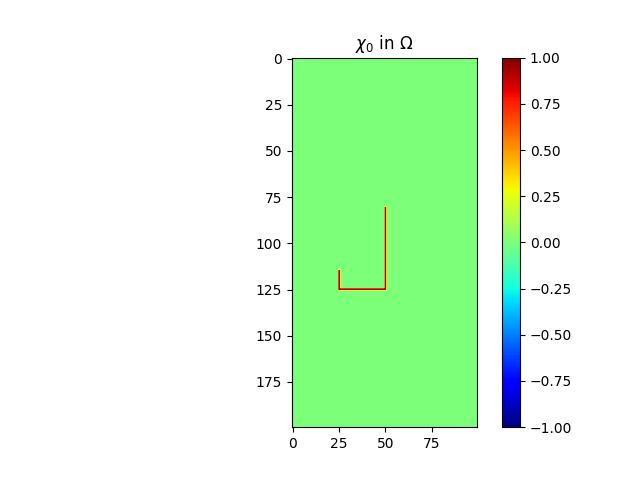
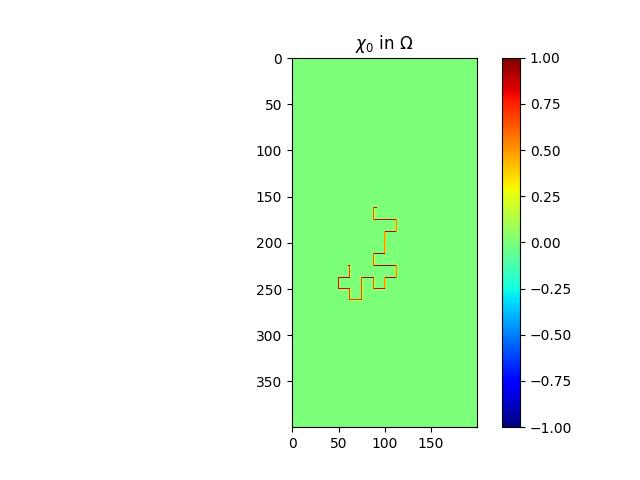
ras

diff --git a/demo_control_polycopie2023.py b/demo_control_polycopie2023.py
@@ -21,7 +21,7 @@ def compute_J_prim(alpha, u, p) :
 
     for i in range(M) :
         for j in range(N) :
-            res[i,j]=np.real(-alpha*u[i,j]*p[i,j])
+            res[i,j]=np.real(alpha*u[i,j]*p[i,j])
     return res
 
 
@@ -148,7 +148,7 @@ def compute_projected(chi, domain, V_obj):
         #print('le volume est', V, 'le volume objectif est', V_obj)
 
     # print(chi)
-    chi=chi_zero_ou_un (M, N, chi, S, V_obj, list_rob)
+    # chi=chi_zero_ou_un (M, N, chi, S, V_obj, list_rob)
 
     return chi
 
@@ -186,12 +186,9 @@ def your_optimization_procedure(domain_omega, spacestep, wavenumber, f, f_dir, f
         print(f"k={k}")
         #print('1. computing solution of Helmholtz problem, i.e., u')
         u=processing.solve_helmholtz(domain_omega, spacestep, wavenumber, f, f_dir, f_neu, f_rob, beta_pde, alpha_pde, alpha_dir, beta_neu, beta_rob, alpha_rob)
-        print(u)
         #print('2. computing solution of adjoint problem, i.e., p')
         p=processing.solve_helmholtz(domain_omega, spacestep, wavenumber, np.conjugate(-2*u), np.zeros_like(domain_omega), f_neu, f_rob, beta_pde, alpha_pde, alpha_dir, beta_neu, beta_rob, alpha_rob)
         #print('3. computing objective function, i.e., energy')
-        print(domain_omega)
-        print(p)
         J=your_compute_objective_function(u) #il y a répétition de ces calculs. ils sont deja fait dans le while en dessous.
         energy[k]=J
         print("energie = ",J)
@@ -231,6 +228,15 @@ def your_optimization_procedure(domain_omega, spacestep, wavenumber, f, f_dir, f
                 
         k += 1
 
+    (M, N) = np.shape(domain_omega)
+    list_rob=[]
+    S = 0
+    for i in range(M):
+        for j in range(N):
+            if domain_omega[i, j] == _env.NODE_ROBIN:
+                S = S + 1
+                list_rob.append([(i,j),0])
+    chi=chi_zero_ou_un(M, N, chi, S, V_obj, list_rob)
     print('end. computing solution of Helmholtz problem, i.e., u')
 
     return chi, energy, u, grad
@@ -267,9 +273,9 @@ if __name__ == '__main__':
     # ----------------------------------------------------------------------
     # -- set parameters of the geometry
 
-    N = 20  # number of points along x-axis
+    N = 200  # number of points along x-axis
     M = 2 * N  # number of points along y-axis
-    level = 1 # level of the fractal
+    level = 2 # level of the fractal
     spacestep = 1.0 / N  # mesh size
 
     # -- set parameters of the partial differential equation
@@ -326,7 +332,7 @@ if __name__ == '__main__':
     V_0 = 1  # initial volume of the domain
     V_obj = np.sum(np.sum(chi)) / S  # constraint on the density
     '''remarquez que la densité est contraint par la fabrication _set_chi'''
-    mu = 5  # initial gradient step
+    mu = 1  # initial gradient step
     mu1 = 10**(-5)  # parameter of the volume functional
 
     # ----------------------------------------------------------------------
